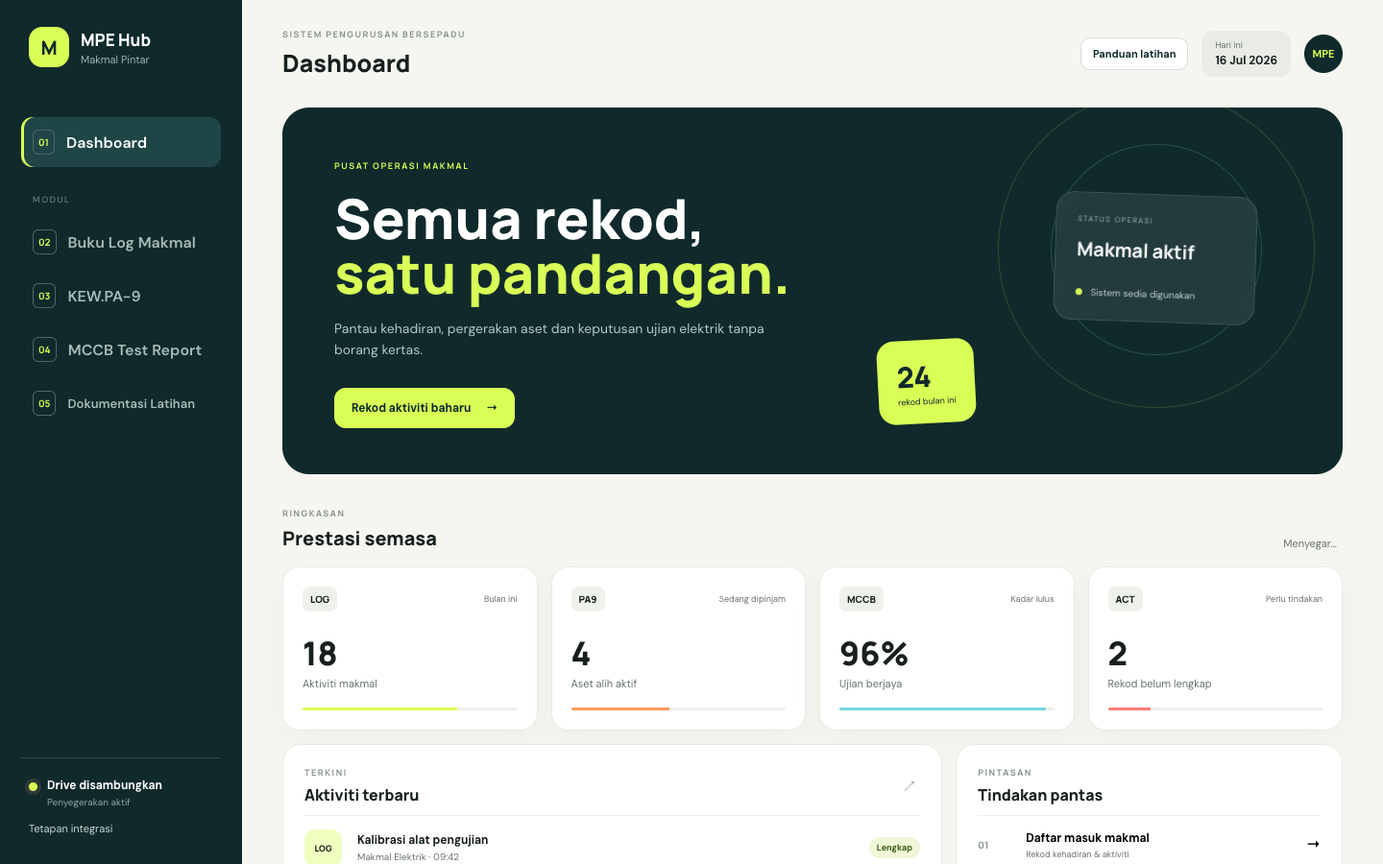
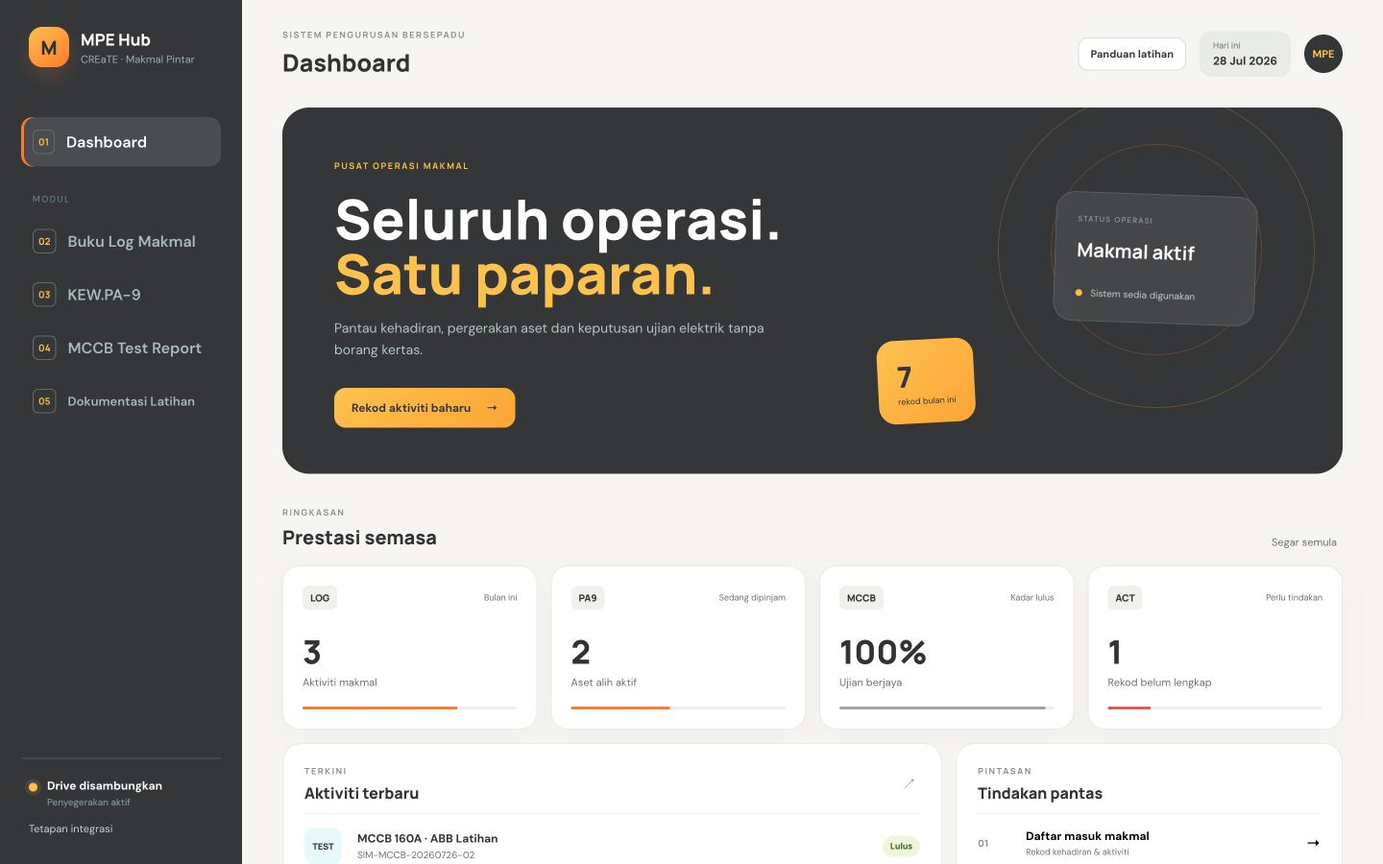
Kemas kini imej MPE Hub kepada tema CREaTE

diff --git a/docs/index.html b/docs/index.html
@@ -7,7 +7,7 @@
   <meta name="theme-color" content="#343638">
   <title>Utama · Portal Latihan MPE</title>
   <link rel="icon" href="assets/favicon.svg" type="image/svg+xml">
-  <link rel="stylesheet" href="assets/styles.css?v=20260728-21">
+  <link rel="stylesheet" href="assets/styles.css?v=20260728-22">
 </head>
 <body>
 <a class="skip-link" href="#kandungan">Langkau ke kandungan</a>
@@ -35,10 +35,10 @@
     <section class="hero"><div class="container hero-grid"><div><p class="eyebrow">Bengkel dua hari · CREaTE JKR</p><h1>Transformasi digital untuk operasi makmal yang lebih pintar.</h1><p class="hero-copy">Portal bahan latihan, demonstrasi dan lembaran kerja bagi Makmal Penyelidikan Elektrik (MPE). Mulakan dengan masalah kerja, pilih percubaan kecil dan kekalkan manusia pada keputusan penting.</p><div class="button-row"><a class="button accent" href="modul-1/index.html">Mulakan Modul 1</a><a class="button ghost" href="modul-1/slaid.html">Buka slaid web Modul 1</a></div></div><div class="hero-meta"><div class="meta-row"><span>Tarikh</span><b>28–29 Julai 2026</b></div><div class="meta-row"><span>Tempat</span><b>CREaTE JKR, Alor Gajah</b></div><div class="meta-row"><span>Tempoh</span><b>Dua hari · 5 modul</b></div><div class="meta-row"><span>Fasilitator</span><b>Prof. Madya Dr. Mohd Murtadha</b></div></div></div></section>
     <section class="section"><div class="container"><div class="section-head"><div><p class="eyebrow">Laluan pembelajaran</p><h2>Lima modul, satu perjalanan transformasi</h2></div><p>Cadangan yang dibina dalam Modul 1 menjadi konteks amali untuk automasi dokumen, analisis rekod, aliran kerja dan penyediaan bahan projek.</p></div><div class="grid module-grid"><a class="card-link" href="modul-1/index.html"><article class="card"><span class="module-number">01</span><h3>Pengenalan aplikasi pintar</h3><p>90 minit</p><span class="status ready">Kandungan lengkap</span></article></a><a class="card-link" href="modul-2/index.html"><article class="card"><span class="module-number">02</span><h3>AI generatif untuk dokumen rasmi</h3><p>120 minit</p><span class="status ready">Kandungan lengkap</span></article></a><a class="card-link" href="modul-3/index.html"><article class="card"><span class="module-number">03</span><h3>Analisis data dan rekod teknikal</h3><p>210 minit</p><span class="status ready">Kandungan lengkap</span></article></a><a class="card-link" href="modul-4/index.html"><article class="card"><span class="module-number">04</span><h3>Automasi aliran kerja makmal</h3><p>120 minit</p><span class="status ready">Kandungan lengkap</span></article></a><a class="card-link" href="modul-5/index.html"><article class="card"><span class="module-number">05</span><h3>Daripada idea kepada MPE Hub</h3><p>120 minit</p><span class="status ready">Kandungan lengkap</span></article></a></div></div></section>
     <section class="section alt"><div class="container"><div class="section-head"><div><p class="eyebrow">Atur cara</p><h2>Jadual bengkel</h2></div><p>Dua hari yang bergerak daripada kefahaman asas kepada prototaip MPE Hub yang berfungsi.</p></div><div class="timeline"><div class="timeline-item"><b>28 Jul · 09:00</b><strong>Modul 1</strong><p>Aplikasi pintar dan peluang produktiviti.</p></div><div class="timeline-item"><b>28 Jul · 11:00</b><strong>Modul 2</strong><p>AI generatif untuk surat, minit tindakan dan kawalan rekod.</p></div><div class="timeline-item"><b>28 Jul · 14:30</b><strong>Modul 3A</strong><p>Analisis data dan rekod teknikal.</p></div><div class="timeline-item"><b>29 Jul · 09:00</b><strong>Modul 3B & 4</strong><p>Sambungan analisis dan aliran kerja.</p></div><div class="timeline-item"><b>29 Jul · 14:30</b><strong>Modul 5</strong><p>Bina dan uji MPE Hub.</p></div></div></div></section>
-    <section class="section"><div class="container feature-panel"><div class="feature-copy"><p class="eyebrow">Kajian kes merentas modul</p><h2>MPE Hub: semua rekod, satu pandangan.</h2><p>Aplikasi demonstrasi menghubungkan Buku Log Makmal, KEW.PA-9 dan rekod ujian MCCB untuk menunjukkan penyatuan data, validasi, status dan kawalan manusia.</p><div class="button-row"><a class="button accent" href="https://drmurtadha.github.io/mpe-hub/" target="_blank" rel="noopener">Buka aplikasi ↗</a><a class="button ghost" href="modul-1/demonstrasi.html">Skrip demonstrasi</a></div></div><div class="feature-image" style="background-image:url('assets/mpe-hub-dashboard.png')" role="img" aria-label="Paparan dashboard demonstrasi MPE Hub"></div></div></section>
+    <section class="section"><div class="container feature-panel"><div class="feature-copy"><p class="eyebrow">Kajian kes merentas modul</p><h2>MPE Hub: semua rekod, satu pandangan.</h2><p>Aplikasi demonstrasi menghubungkan Buku Log Makmal, KEW.PA-9 dan rekod ujian MCCB untuk menunjukkan penyatuan data, validasi, status dan kawalan manusia.</p><div class="button-row"><a class="button accent" href="https://drmurtadha.github.io/mpe-hub/" target="_blank" rel="noopener">Buka aplikasi ↗</a><a class="button ghost" href="modul-1/demonstrasi.html">Skrip demonstrasi</a></div></div><div class="feature-image" style="background-image:url('assets/mpe-hub-dashboard.png?v=20260728-22')" role="img" aria-label="Paparan dashboard demonstrasi MPE Hub bertema CREaTE"></div></div></section>
   </main>
 <footer class="site-footer"><div class="container footer-grid"><div><strong>Bengkel Transformasi Digital dan Pemerkasaan Operasi Pintar MPE</strong><br>CREaTE JKR · 28–29 Julai 2026</div><div>Prof. Madya Dr. Mohd Murtadha Mohamad<br><a href="https://github.com/drMurtadha/jkr-create-mpe-training">Sumber terbuka di GitHub</a></div></div></footer>
-<script src="assets/site.js?v=20260728-21"></script>
+<script src="assets/site.js?v=20260728-22"></script>
 
 </body>
 </html>

diff --git a/docs/slaid.html b/docs/slaid.html
@@ -7,7 +7,7 @@
   <meta name="theme-color" content="#343638">
   <title>Slaid web · Portal Latihan MPE</title>
   <link rel="icon" href="assets/favicon.svg" type="image/svg+xml">
-  <link rel="stylesheet" href="assets/styles.css?v=20260728-21">
+  <link rel="stylesheet" href="assets/styles.css?v=20260728-22">
 </head>
 <body>
 <a class="skip-link" href="#kandungan">Langkau ke kandungan</a>
@@ -32,7 +32,7 @@
 <div class="training-banner" role="status"><div class="container"><strong>Persekitaran latihan</strong><span>Gunakan data rekaan sahaja · bukan sistem pengeluaran atau repositori rasmi</span></div></div>
 <section class="page-hero"><div class="container"><div class="breadcrumbs"><a href="index.html">Portal latihan</a> / Slaid web</div><h1>Slaid web</h1><p>Pilih modul untuk membuka dek interaktif lengkap dengan nota penyampai.</p></div></section><main id="kandungan" class="container section"><div class="grid module-grid"><a class="card-link" href="modul-1/slaid.html"><article class="card"><span class="module-number">01</span><h3>Modul 1</h3><p>Aplikasi pintar untuk produktiviti kerja MPE · 22 slaid</p><span class="status ready">Buka slaid</span></article></a><a class="card-link" href="modul-2/slaid.html"><article class="card"><span class="module-number">02</span><h3>Modul 2</h3><p>AI generatif untuk dokumen rasmi tidak terperingkat · 26 slaid</p><span class="status ready">Buka slaid</span></article></a><a class="card-link" href="modul-3/slaid.html"><article class="card"><span class="module-number">03</span><h3>Modul 3A + 3B</h3><p>Analisis data dan pengurusan rekod teknikal · 30 slaid</p><span class="status ready">Buka slaid</span></article></a><a class="card-link" href="modul-4/slaid.html"><article class="card"><span class="module-number">04</span><h3>Modul 4A + 4B</h3><p>Automasi aliran kerja dan proses makmal · 23 slaid</p><span class="status ready">Buka slaid</span></article></a><a class="card-link" href="modul-5/slaid.html"><article class="card"><span class="module-number">05</span><h3>Modul 5</h3><p>Bina MPE Hub secara hands-on · 20 slaid</p><span class="status ready">Buka slaid</span></article></a></div></main>
 <footer class="site-footer"><div class="container footer-grid"><div><strong>Bengkel Transformasi Digital dan Pemerkasaan Operasi Pintar MPE</strong><br>CREaTE JKR · 28–29 Julai 2026</div><div>Prof. Madya Dr. Mohd Murtadha Mohamad<br><a href="https://github.com/drMurtadha/jkr-create-mpe-training">Sumber terbuka di GitHub</a></div></div></footer>
-<script src="assets/site.js?v=20260728-21"></script>
+<script src="assets/site.js?v=20260728-22"></script>
 
 </body>
 </html>

diff --git a/docs/modul-2/slaid.html b/docs/modul-2/slaid.html
@@ -1,1 +1,1 @@
-<!doctype html><html lang="ms"><head><meta charset="utf-8"><meta name="viewport" content="width=device-width, initial-scale=1"><meta name="theme-color" content="#343638"><title>Slaid Web Modul 2 · Portal Latihan MPE</title><link rel="icon" href="../assets/favicon.svg" type="image/svg+xml"><link rel="stylesheet" href="../assets/styles.css?v=20260728-21"></head><body class="slide-mode"><main class="deck"><div class="slides-viewport" data-slides aria-live="polite"></div><div class="deck-toolbar"><a href="index.html" title="Kembali ke Modul 2">← Modul 2</a><button data-prev aria-label="Slaid sebelumnya">←</button><button data-next aria-label="Slaid seterusnya">→</button><span class="slide-count" data-slide-count></span><div class="deck-progress" aria-hidden="true"><span data-progress></span></div><button class="optional" data-notes title="Tekan N">Nota</button><button class="optional" data-fullscreen title="Tekan F">Skrin penuh</button></div></main><aside class="speaker-notes" data-notes-panel></aside><script src="../assets/slides-modul-2.js?v=20260728-21"></script></body></html>
+<!doctype html><html lang="ms"><head><meta charset="utf-8"><meta name="viewport" content="width=device-width, initial-scale=1"><meta name="theme-color" content="#343638"><title>Slaid Web Modul 2 · Portal Latihan MPE</title><link rel="icon" href="../assets/favicon.svg" type="image/svg+xml"><link rel="stylesheet" href="../assets/styles.css?v=20260728-22"></head><body class="slide-mode"><main class="deck"><div class="slides-viewport" data-slides aria-live="polite"></div><div class="deck-toolbar"><a href="index.html" title="Kembali ke Modul 2">← Modul 2</a><button data-prev aria-label="Slaid sebelumnya">←</button><button data-next aria-label="Slaid seterusnya">→</button><span class="slide-count" data-slide-count></span><div class="deck-progress" aria-hidden="true"><span data-progress></span></div><button class="optional" data-notes title="Tekan N">Nota</button><button class="optional" data-fullscreen title="Tekan F">Skrin penuh</button></div></main><aside class="speaker-notes" data-notes-panel></aside><script src="../assets/slides-modul-2.js?v=20260728-22"></script></body></html>

diff --git a/docs/modul-3/slaid.html b/docs/modul-3/slaid.html
@@ -1,1 +1,1 @@
-<!doctype html><html lang="ms"><head><meta charset="utf-8"><meta name="viewport" content="width=device-width, initial-scale=1"><meta name="theme-color" content="#343638"><title>Slaid Web Modul 3 · Portal Latihan MPE</title><link rel="icon" href="../assets/favicon.svg" type="image/svg+xml"><link rel="stylesheet" href="../assets/styles.css?v=20260728-21"></head><body class="slide-mode"><main class="deck"><div class="slides-viewport" data-slides aria-live="polite"></div><div class="deck-toolbar"><a href="index.html" title="Kembali ke Modul 3">← Modul 3</a><button data-prev aria-label="Slaid sebelumnya">←</button><button data-next aria-label="Slaid seterusnya">→</button><span class="slide-count" data-slide-count></span><div class="deck-progress" aria-hidden="true"><span data-progress></span></div><button class="optional" data-notes title="Tekan N">Nota</button><button class="optional" data-fullscreen title="Tekan F">Skrin penuh</button></div></main><aside class="speaker-notes" data-notes-panel></aside><script src="../assets/slides-modul-3.js?v=20260728-21"></script></body></html>
+<!doctype html><html lang="ms"><head><meta charset="utf-8"><meta name="viewport" content="width=device-width, initial-scale=1"><meta name="theme-color" content="#343638"><title>Slaid Web Modul 3 · Portal Latihan MPE</title><link rel="icon" href="../assets/favicon.svg" type="image/svg+xml"><link rel="stylesheet" href="../assets/styles.css?v=20260728-22"></head><body class="slide-mode"><main class="deck"><div class="slides-viewport" data-slides aria-live="polite"></div><div class="deck-toolbar"><a href="index.html" title="Kembali ke Modul 3">← Modul 3</a><button data-prev aria-label="Slaid sebelumnya">←</button><button data-next aria-label="Slaid seterusnya">→</button><span class="slide-count" data-slide-count></span><div class="deck-progress" aria-hidden="true"><span data-progress></span></div><button class="optional" data-notes title="Tekan N">Nota</button><button class="optional" data-fullscreen title="Tekan F">Skrin penuh</button></div></main><aside class="speaker-notes" data-notes-panel></aside><script src="../assets/slides-modul-3.js?v=20260728-22"></script></body></html>

diff --git a/docs/modul-4/slaid.html b/docs/modul-4/slaid.html
@@ -1,1 +1,1 @@
-<!doctype html><html lang="ms"><head><meta charset="utf-8"><meta name="viewport" content="width=device-width, initial-scale=1"><meta name="theme-color" content="#343638"><title>Slaid Web Modul 4 · Portal Latihan MPE</title><link rel="icon" href="../assets/favicon.svg" type="image/svg+xml"><link rel="stylesheet" href="../assets/styles.css?v=20260728-21"></head><body class="slide-mode"><main class="deck"><div class="slides-viewport" data-slides aria-live="polite"></div><div class="deck-toolbar"><a href="index.html" title="Kembali ke Modul 4">← Modul 4</a><button data-prev aria-label="Slaid sebelumnya">←</button><button data-next aria-label="Slaid seterusnya">→</button><span class="slide-count" data-slide-count></span><div class="deck-progress" aria-hidden="true"><span data-progress></span></div><button class="optional" data-notes title="Tekan N">Nota</button><button class="optional" data-fullscreen title="Tekan F">Skrin penuh</button></div></main><aside class="speaker-notes" data-notes-panel></aside><script src="../assets/slides-modul-4.js?v=20260728-21"></script></body></html>
+<!doctype html><html lang="ms"><head><meta charset="utf-8"><meta name="viewport" content="width=device-width, initial-scale=1"><meta name="theme-color" content="#343638"><title>Slaid Web Modul 4 · Portal Latihan MPE</title><link rel="icon" href="../assets/favicon.svg" type="image/svg+xml"><link rel="stylesheet" href="../assets/styles.css?v=20260728-22"></head><body class="slide-mode"><main class="deck"><div class="slides-viewport" data-slides aria-live="polite"></div><div class="deck-toolbar"><a href="index.html" title="Kembali ke Modul 4">← Modul 4</a><button data-prev aria-label="Slaid sebelumnya">←</button><button data-next aria-label="Slaid seterusnya">→</button><span class="slide-count" data-slide-count></span><div class="deck-progress" aria-hidden="true"><span data-progress></span></div><button class="optional" data-notes title="Tekan N">Nota</button><button class="optional" data-fullscreen title="Tekan F">Skrin penuh</button></div></main><aside class="speaker-notes" data-notes-panel></aside><script src="../assets/slides-modul-4.js?v=20260728-22"></script></body></html>

diff --git a/docs/modul-5/slaid.html b/docs/modul-5/slaid.html
@@ -1,1 +1,1 @@
-<!doctype html><html lang="ms"><head><meta charset="utf-8"><meta name="viewport" content="width=device-width, initial-scale=1"><meta name="theme-color" content="#343638"><title>Slaid Web Modul 5 · Portal Latihan MPE</title><link rel="icon" href="../assets/favicon.svg" type="image/svg+xml"><link rel="stylesheet" href="../assets/styles.css?v=20260728-21"></head><body class="slide-mode"><main class="deck"><div class="slides-viewport" data-slides aria-live="polite"></div><div class="deck-toolbar"><a href="index.html" title="Kembali ke Modul 5">← Modul 5</a><button data-prev aria-label="Slaid sebelumnya">←</button><button data-next aria-label="Slaid seterusnya">→</button><span class="slide-count" data-slide-count></span><div class="deck-progress" aria-hidden="true"><span data-progress></span></div><button class="optional" data-notes title="Tekan N">Nota</button><button class="optional" data-fullscreen title="Tekan F">Skrin penuh</button></div></main><aside class="speaker-notes" data-notes-panel></aside><script src="../assets/slides-modul-5.js?v=20260728-21"></script></body></html>
+<!doctype html><html lang="ms"><head><meta charset="utf-8"><meta name="viewport" content="width=device-width, initial-scale=1"><meta name="theme-color" content="#343638"><title>Slaid Web Modul 5 · Portal Latihan MPE</title><link rel="icon" href="../assets/favicon.svg" type="image/svg+xml"><link rel="stylesheet" href="../assets/styles.css?v=20260728-22"></head><body class="slide-mode"><main class="deck"><div class="slides-viewport" data-slides aria-live="polite"></div><div class="deck-toolbar"><a href="index.html" title="Kembali ke Modul 5">← Modul 5</a><button data-prev aria-label="Slaid sebelumnya">←</button><button data-next aria-label="Slaid seterusnya">→</button><span class="slide-count" data-slide-count></span><div class="deck-progress" aria-hidden="true"><span data-progress></span></div><button class="optional" data-notes title="Tekan N">Nota</button><button class="optional" data-fullscreen title="Tekan F">Skrin penuh</button></div></main><aside class="speaker-notes" data-notes-panel></aside><script src="../assets/slides-modul-5.js?v=20260728-22"></script></body></html>

diff --git a/docs/modul-1/slaid.html b/docs/modul-1/slaid.html
@@ -1,1 +1,1 @@
-<!doctype html><html lang="ms"><head><meta charset="utf-8"><meta name="viewport" content="width=device-width, initial-scale=1"><meta name="theme-color" content="#343638"><title>Slaid Web Modul 1 · Portal Latihan MPE</title><link rel="icon" href="../assets/favicon.svg" type="image/svg+xml"><link rel="stylesheet" href="../assets/styles.css?v=20260728-21"></head><body class="slide-mode"><main class="deck"><div class="slides-viewport" data-slides aria-live="polite"></div><div class="deck-toolbar"><a href="index.html" title="Kembali ke Modul 1">← Modul 1</a><button data-prev aria-label="Slaid sebelumnya">←</button><button data-next aria-label="Slaid seterusnya">→</button><span class="slide-count" data-slide-count></span><div class="deck-progress" aria-hidden="true"><span data-progress></span></div><button class="optional" data-notes title="Tekan N">Nota</button><button class="optional" data-fullscreen title="Tekan F">Skrin penuh</button></div></main><aside class="speaker-notes" data-notes-panel></aside><script src="../assets/slides.js?v=20260728-21"></script></body></html>
+<!doctype html><html lang="ms"><head><meta charset="utf-8"><meta name="viewport" content="width=device-width, initial-scale=1"><meta name="theme-color" content="#343638"><title>Slaid Web Modul 1 · Portal Latihan MPE</title><link rel="icon" href="../assets/favicon.svg" type="image/svg+xml"><link rel="stylesheet" href="../assets/styles.css?v=20260728-22"></head><body class="slide-mode"><main class="deck"><div class="slides-viewport" data-slides aria-live="polite"></div><div class="deck-toolbar"><a href="index.html" title="Kembali ke Modul 1">← Modul 1</a><button data-prev aria-label="Slaid sebelumnya">←</button><button data-next aria-label="Slaid seterusnya">→</button><span class="slide-count" data-slide-count></span><div class="deck-progress" aria-hidden="true"><span data-progress></span></div><button class="optional" data-notes title="Tekan N">Nota</button><button class="optional" data-fullscreen title="Tekan F">Skrin penuh</button></div></main><aside class="speaker-notes" data-notes-panel></aside><script src="../assets/slides.js?v=20260728-22"></script></body></html>

diff --git a/docs/modul-3/index.html b/docs/modul-3/index.html
@@ -7,7 +7,7 @@
   <meta name="theme-color" content="#343638">
   <title>Modul 3 — Pendekatan Sistematik dalam Analisis Data dan Pengurusan Rekod Teknikal · Portal Latihan MPE</title>
   <link rel="icon" href="../assets/favicon.svg" type="image/svg+xml">
-  <link rel="stylesheet" href="../assets/styles.css?v=20260728-21">
+  <link rel="stylesheet" href="../assets/styles.css?v=20260728-22">
 </head>
 <body>
 <a class="skip-link" href="#kandungan">Langkau ke kandungan</a>
@@ -187,7 +187,7 @@
 </div><p>Jika video tidak dapat dipaparkan, <a href="https://youtu.be/xq0VixTHGuc">buka video Modul 3 di YouTube</a>.</p>
 <div class="resource-bar"><a class="button" href="../downloads/Slaid-Modul-3-MPE.pptx">Muat turun PPTX</a><a class="button ghost" href="../downloads/Slaid-Modul-3-MPE.pdf">Muat turun PDF</a><a class="button ghost" href="../downloads/Nota-Deck-Modul-3.md">Nota penceramah</a><a class="button ghost" href="https://github.com/drMurtadha/jkr-create-mpe-training/blob/main/Modul%203/README.md" target="_blank" rel="noopener">Lihat sumber Markdown ↗</a><button class="button ghost" onclick="window.print()">Cetak halaman</button></div></article></main>
 <footer class="site-footer"><div class="container footer-grid"><div><strong>Bengkel Transformasi Digital dan Pemerkasaan Operasi Pintar MPE</strong><br>CREaTE JKR · 28–29 Julai 2026</div><div>Prof. Madya Dr. Mohd Murtadha Mohamad<br><a href="https://github.com/drMurtadha/jkr-create-mpe-training">Sumber terbuka di GitHub</a></div></div></footer>
-<script src="../assets/site.js?v=20260728-21"></script>
+<script src="../assets/site.js?v=20260728-22"></script>
 
 </body>
 </html>

diff --git a/docs/modul-4/index.html b/docs/modul-4/index.html
@@ -7,7 +7,7 @@
   <meta name="theme-color" content="#343638">
   <title>Modul 4 — Automasi Aliran Kerja dan Proses Makmal · Portal Latihan MPE</title>
   <link rel="icon" href="../assets/favicon.svg" type="image/svg+xml">
-  <link rel="stylesheet" href="../assets/styles.css?v=20260728-21">
+  <link rel="stylesheet" href="../assets/styles.css?v=20260728-22">
 </head>
 <body>
 <a class="skip-link" href="#kandungan">Langkau ke kandungan</a>
@@ -184,7 +184,7 @@
 </div><p>Jika video tidak dapat dipaparkan, <a href="https://youtu.be/CIua_FV9pSs">buka video Modul 4 di YouTube</a>.</p>
 <div class="resource-bar"><a class="button" href="../downloads/Slaid-Modul-4-MPE.pptx">Muat turun PPTX</a><a class="button ghost" href="../downloads/Slaid-Modul-4-MPE.pdf">Muat turun PDF</a><a class="button ghost" href="../downloads/Nota-Deck-Modul-4.md">Nota penceramah</a><a class="button ghost" href="https://github.com/drMurtadha/jkr-create-mpe-training/blob/main/Modul%204/README.md" target="_blank" rel="noopener">Lihat sumber Markdown ↗</a><button class="button ghost" onclick="window.print()">Cetak halaman</button></div></article></main>
 <footer class="site-footer"><div class="container footer-grid"><div><strong>Bengkel Transformasi Digital dan Pemerkasaan Operasi Pintar MPE</strong><br>CREaTE JKR · 28–29 Julai 2026</div><div>Prof. Madya Dr. Mohd Murtadha Mohamad<br><a href="https://github.com/drMurtadha/jkr-create-mpe-training">Sumber terbuka di GitHub</a></div></div></footer>
-<script src="../assets/site.js?v=20260728-21"></script>
+<script src="../assets/site.js?v=20260728-22"></script>
 
 </body>
 </html>

diff --git a/docs/modul-2/index.html b/docs/modul-2/index.html
@@ -7,7 +7,7 @@
   <meta name="theme-color" content="#343638">
   <title>Modul 2 — AI Generatif untuk Dokumen Rasmi · Portal Latihan MPE</title>
   <link rel="icon" href="../assets/favicon.svg" type="image/svg+xml">
-  <link rel="stylesheet" href="../assets/styles.css?v=20260728-21">
+  <link rel="stylesheet" href="../assets/styles.css?v=20260728-22">
 </head>
 <body>
 <a class="skip-link" href="#kandungan">Langkau ke kandungan</a>
@@ -232,7 +232,7 @@
 </div><p>Jika video tidak dapat dipaparkan, <a href="https://youtu.be/8tuuNw4py90">buka video Modul 2 di YouTube</a>.</p>
 <div class="resource-bar"><a class="button" href="../downloads/Slaid-Modul-2-MPE.pptx">Muat turun PPTX</a><a class="button ghost" href="../downloads/Slaid-Modul-2-MPE.pdf">Muat turun PDF</a><a class="button ghost" href="../downloads/Nota-Deck-Modul-2.md">Nota penceramah</a><a class="button ghost" href="https://github.com/drMurtadha/jkr-create-mpe-training/blob/main/Modul%202/README.md" target="_blank" rel="noopener">Lihat sumber Markdown ↗</a><button class="button ghost" onclick="window.print()">Cetak halaman</button></div></article></main>
 <footer class="site-footer"><div class="container footer-grid"><div><strong>Bengkel Transformasi Digital dan Pemerkasaan Operasi Pintar MPE</strong><br>CREaTE JKR · 28–29 Julai 2026</div><div>Prof. Madya Dr. Mohd Murtadha Mohamad<br><a href="https://github.com/drMurtadha/jkr-create-mpe-training">Sumber terbuka di GitHub</a></div></div></footer>
-<script src="../assets/site.js?v=20260728-21"></script>
+<script src="../assets/site.js?v=20260728-22"></script>
 
 </body>
 </html>

diff --git a/docs/modul-5/index.html b/docs/modul-5/index.html
@@ -7,7 +7,7 @@
   <meta name="theme-color" content="#343638">
   <title>Modul 5 — Daripada Idea kepada MPE Hub · Portal Latihan MPE</title>
   <link rel="icon" href="../assets/favicon.svg" type="image/svg+xml">
-  <link rel="stylesheet" href="../assets/styles.css?v=20260728-21">
+  <link rel="stylesheet" href="../assets/styles.css?v=20260728-22">
 </head>
 <body>
 <a class="skip-link" href="#kandungan">Langkau ke kandungan</a>
@@ -346,7 +346,7 @@
 <div class="final-evaluation" data-final-evaluation="facilitator"></div>
 <div class="resource-bar"><a class="button" href="../downloads/Slaid-Modul-5-MPE.pptx">Muat turun PPTX</a><a class="button ghost" href="../downloads/Slaid-Modul-5-MPE.pdf">Muat turun PDF</a><a class="button ghost" href="../downloads/Nota-Deck-Modul-5.md">Nota penceramah</a><a class="button ghost" href="https://github.com/drMurtadha/jkr-create-mpe-training/blob/main/Modul%205/README.md" target="_blank" rel="noopener">Lihat sumber Markdown ↗</a><button class="button ghost" onclick="window.print()">Cetak halaman</button></div></article></main>
 <footer class="site-footer"><div class="container footer-grid"><div><strong>Bengkel Transformasi Digital dan Pemerkasaan Operasi Pintar MPE</strong><br>CREaTE JKR · 28–29 Julai 2026</div><div>Prof. Madya Dr. Mohd Murtadha Mohamad<br><a href="https://github.com/drMurtadha/jkr-create-mpe-training">Sumber terbuka di GitHub</a></div></div></footer>
-<script src="../assets/site.js?v=20260728-21"></script>
+<script src="../assets/site.js?v=20260728-22"></script>
 
 </body>
 </html>

diff --git a/docs/modul-1/index.html b/docs/modul-1/index.html
@@ -7,7 +7,7 @@
   <meta name="theme-color" content="#343638">
   <title>Modul 1 — Pengenalan Aplikasi Pintar · Portal Latihan MPE</title>
   <link rel="icon" href="../assets/favicon.svg" type="image/svg+xml">
-  <link rel="stylesheet" href="../assets/styles.css?v=20260728-21">
+  <link rel="stylesheet" href="../assets/styles.css?v=20260728-22">
 </head>
 <body>
 <a class="skip-link" href="#kandungan">Langkau ke kandungan</a>
@@ -234,7 +234,7 @@
 </div><p>Jika video tidak dapat dipaparkan, <a href="https://youtu.be/9t1zM88TK8c">buka video Modul 1 di YouTube</a>.</p>
 <div class="resource-bar"><a class="button" href="../downloads/Slaid-Modul-1-MPE.pptx">Muat turun PPTX</a><a class="button ghost" href="../downloads/Slaid-Modul-1-MPE.pdf">Muat turun PDF</a><a class="button ghost" href="https://github.com/drMurtadha/jkr-create-mpe-training/blob/main/Modul%201/README.md" target="_blank" rel="noopener">Lihat sumber Markdown ↗</a><button class="button ghost" onclick="window.print()">Cetak halaman</button></div></article></main>
 <footer class="site-footer"><div class="container footer-grid"><div><strong>Bengkel Transformasi Digital dan Pemerkasaan Operasi Pintar MPE</strong><br>CREaTE JKR · 28–29 Julai 2026</div><div>Prof. Madya Dr. Mohd Murtadha Mohamad<br><a href="https://github.com/drMurtadha/jkr-create-mpe-training">Sumber terbuka di GitHub</a></div></div></footer>
-<script src="../assets/site.js?v=20260728-21"></script>
+<script src="../assets/site.js?v=20260728-22"></script>
 
 </body>
 </html>
